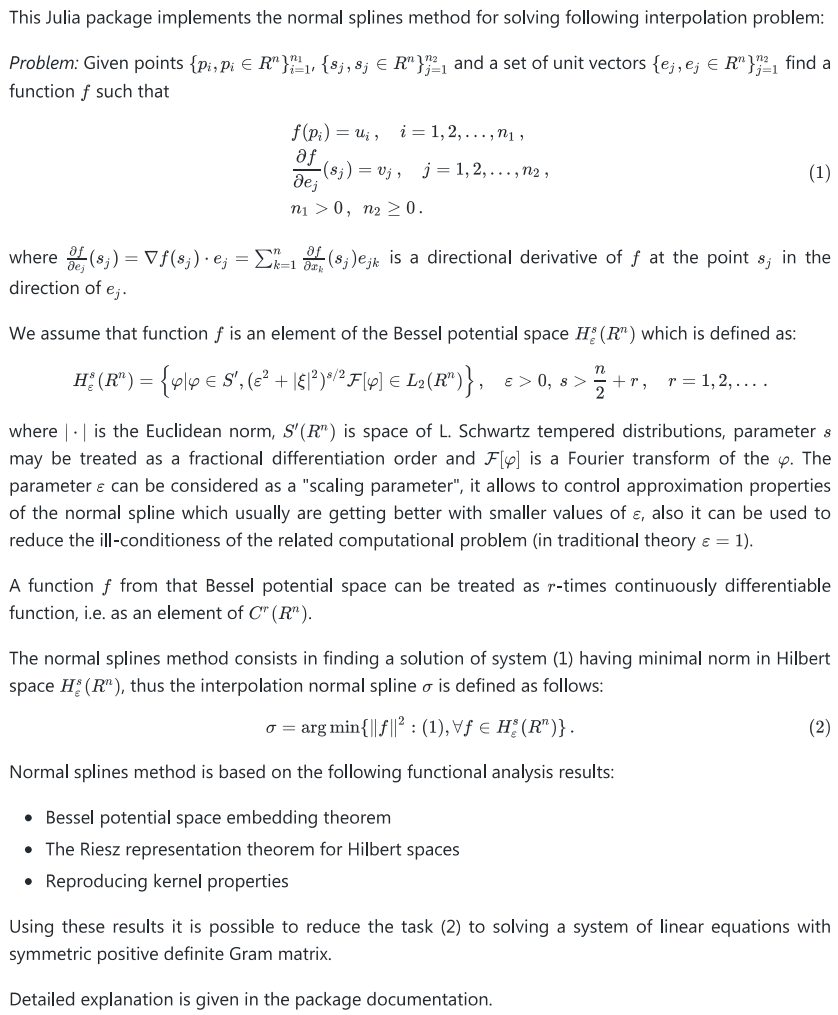
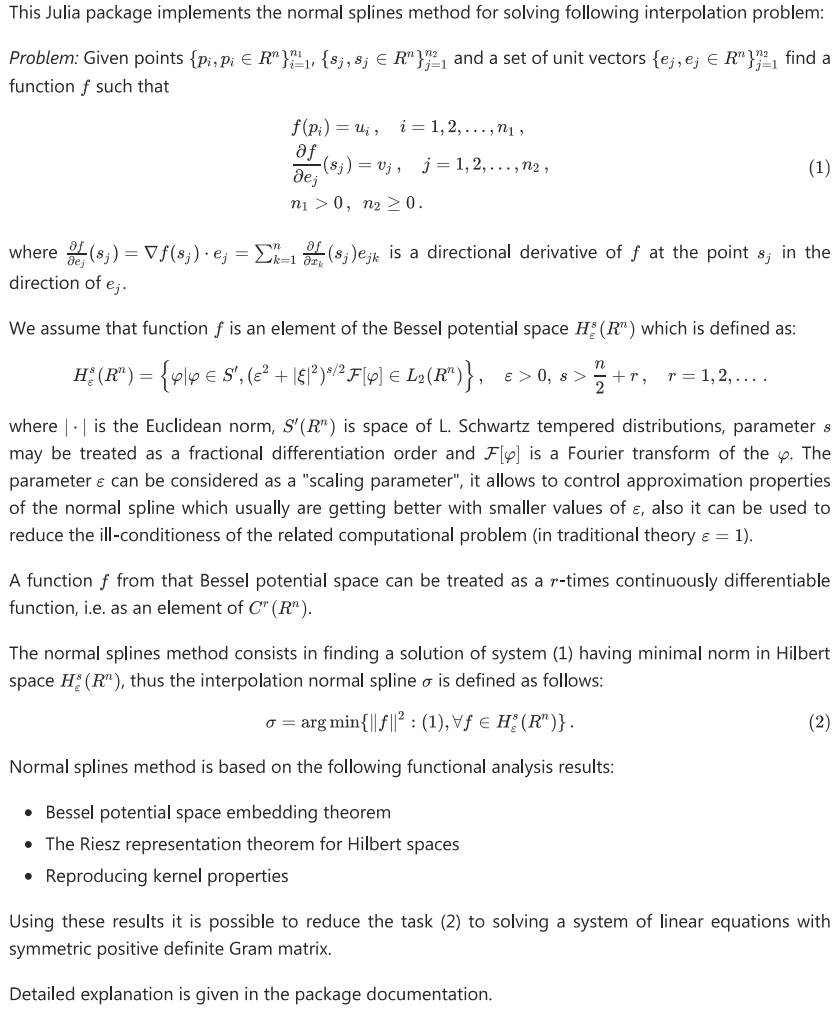
.

diff --git a/README.md b/README.md
@@ -5,7 +5,7 @@
 [![codecov.io](https://codecov.io/github/IgorKohan/NormalHermiteSplines.jl/coverage.svg?branch=master)](https://codecov.io/github/IgorKohan/NormalHermiteSplines.jl?branch=master)
 
 
-![Problem definition](/images/problem-definition.png)
+![Problem definition](/images/problem-definition.gif)
 
 ## Instalation
 Start Julia and run the following commands:
